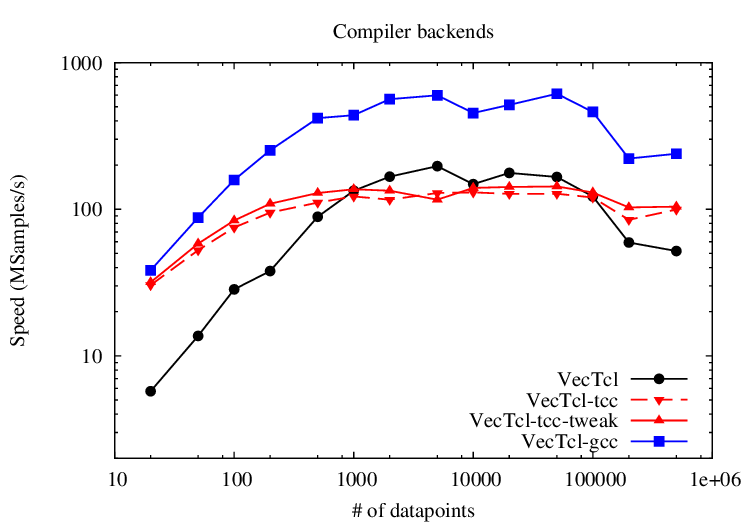
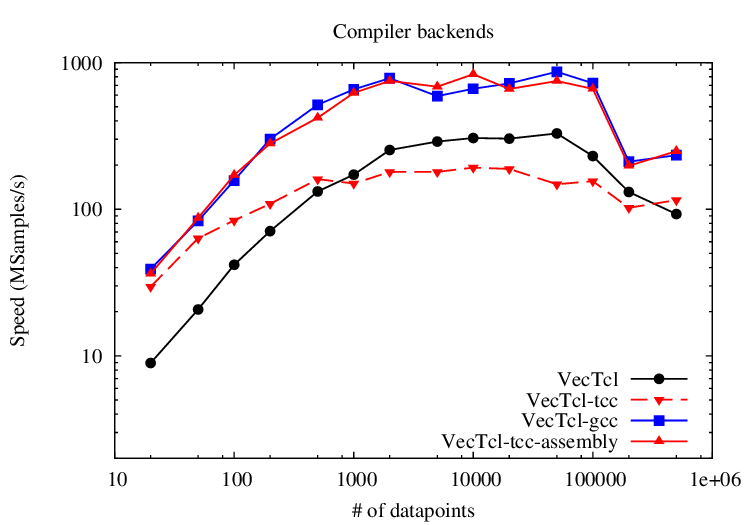
Modified benchmark including assembly

diff --git a/benchmarks/jitcompiler.md b/benchmarks/jitcompiler.md
@@ -33,12 +33,13 @@ jitproc square_tcc {{x {double n}} {y {double n}}} {
 This code was compiled using the standard VecTcl compiler, which compiles to Tcl
 (`vproc`), marked by the black line in the graph. The code was also compiled by `jitproc`,
 which compiles into C and passes the code to tcc4tcl. The auto-generated code was further
-manually optimized to reduce the pointer dereferences in the inner loop
-(VecTcl-tcc-tweaked), and passed to gcc to compile a loadable dynamic library. 
+passed to gcc to compile a loadable dynamic library, and a
+manually optimized inner loop was created using inline assembly in the tcc compiled version
+(VecTcl-tcc-assembly)
 
 Up to a vector length of 1000, all native code generation paths significantly outrun the
 Tcl backend, by avoiding the costs of invoking the VecTcl library functions via the
-bytecode interpreter. Until 100,000 data points, the tcc compiled expressions are even
+bytecode interpreter. Until 100,000 data points, the tcc compiled expressions are
 slightly slower than the Tcl versions, which is due to the better optimization of the
 ahead-of-time compiler (gcc) during compilation of VecTcl. For even larger arrays, the
 generated temporaries of the Tcl backend exhaust the L3 cache of the machine, and tcc wins
@@ -48,5 +49,11 @@ In all cases, the gcc compiled version wins by a large margin. The difference be
 and gcc is mainly due to failing register allocation in the tcc code. The gcc compiled
 inner loop runs completely inside the SSE2 registers, whereas tcc spills all variables to
 memory after each statement. An improvement without the use of an external compiler could
-be done using the OIL runtime compiler ORC for just the inner loop, or using LLVM instead of
-tcc.
+be done using the OIL runtime compiler ORC for just the inner loop. The achievable performance 
+by this combination is predicted from the inline assembly experiment (VecTcl-tcc-assebly), where
+the inner hot loop was created using manual insertion of SSE2/x86_64 opcodes into the 
+tcc output. The result is as fast as the gcc compiled version, while most part of the boilerplate
+code for setting up the arrays, error handling and interfacing with Tcl is still handled by tcc.
+To achieve the same performance out of the C backend, a better optimizing JIT compiler backend 
+would be needed such as LLVM instead of tcc. That would also allow calling transcendental functions
+insisde the loop, which is impossible in ORC. 
